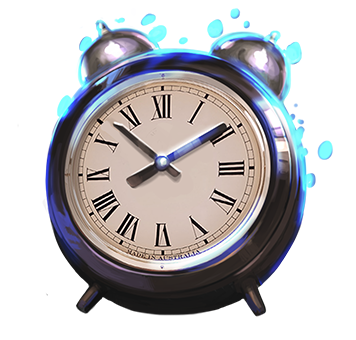
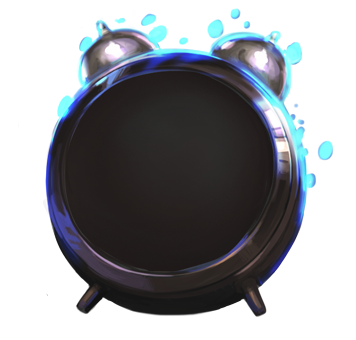
fix timer

diff --git a/content/frostivus/panorama/styles/custom_game/frostivus/hud_main.css b/content/frostivus/panorama/styles/custom_game/frostivus/hud_main.css
@@ -297,18 +297,14 @@
 	padding: 20px;
 	padding-left: 30px;
 	border-radius:20px;
-
-	flow-children: right;
-
-	background-color:#000000aa;
 }
 
 .TimerBackground {
-	width: 100px;
-	height:100px;
+	width: 250px;
+	height:250px;
 }
 
-.TimeRunningOut .TimerBackground{
+.TimeRunningOut #count_down_timer{
 	animation-name: Shaking;
 	animation-duration: 0.3s;
 	animation-delay: 0s;
@@ -364,10 +360,11 @@
 
 #timer_digits {
 	vertical-align: center;
-	font-size: 70px;
+	horizontal-align: center;
+	font-size: 50px;
+	margin-right: 10px;
 	font-weight: bold;
 	color: gradient( linear, 0% 0%, 0% 100%, from( #ffe899 ), color-stop( .32, #e5eb37 ), color-stop( .64, #cdac14 ), to( #837b00 ) );
-	letter-spacing: 3px;
 }
 
 .TimeRunningOut #timer_digits {

diff --git a/content/frostivus/panorama/scripts/custom_game/frostivus/hud_main.js b/content/frostivus/panorama/scripts/custom_game/frostivus/hud_main.js
@@ -36,6 +36,8 @@ function HideTimer() {
 }
 
 function OnTimer(args){
+	$("#count_down_timer").RemoveClass("Hidden");
+
 	var time = args.value
 	$("#count_down_timer").SetHasClass("TimeRunningOut", time < 20)
 	
